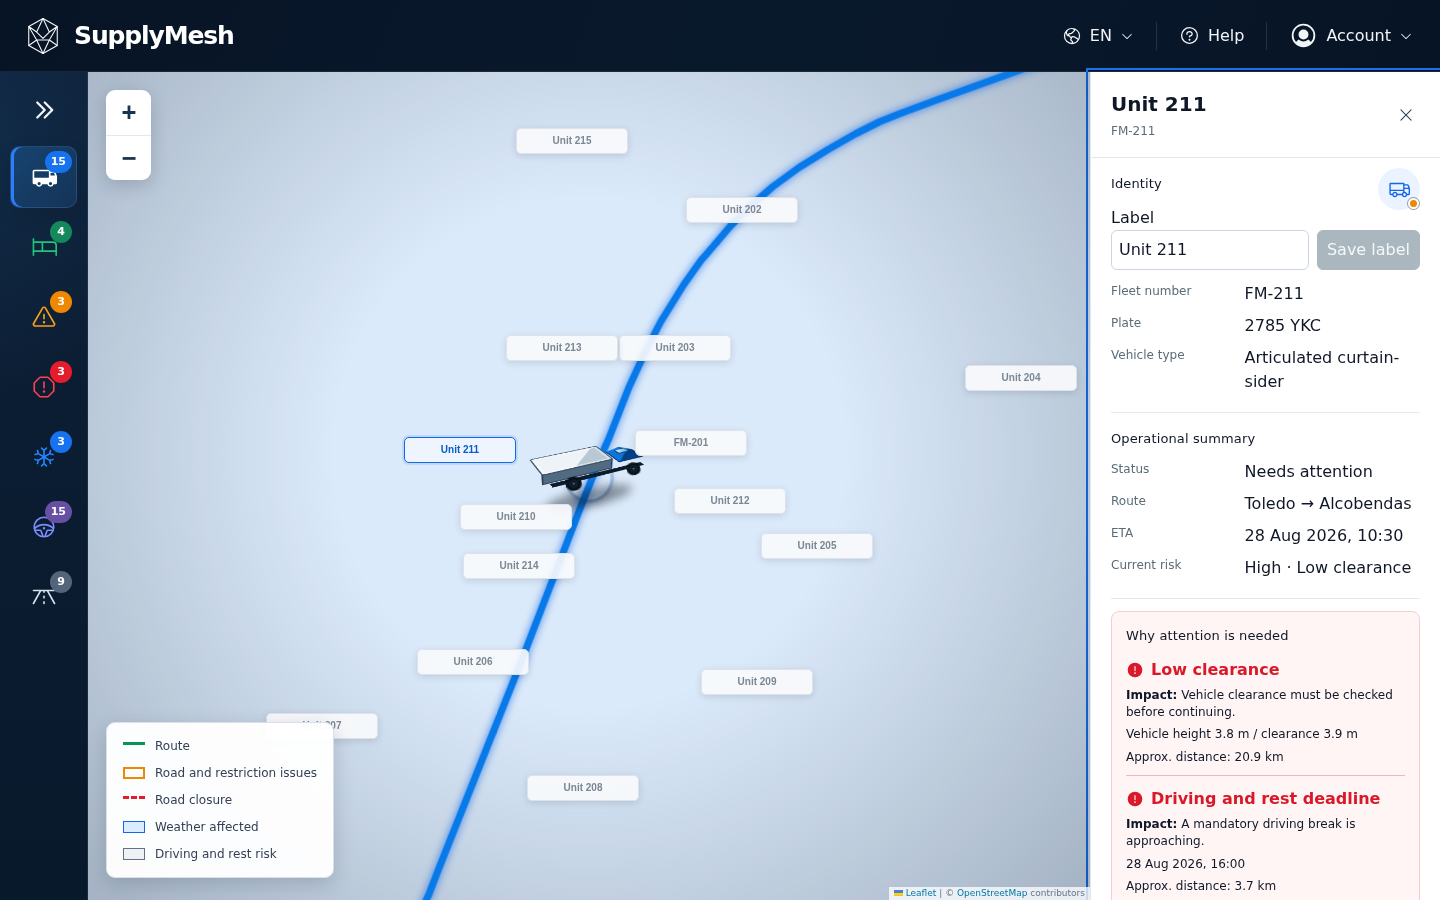
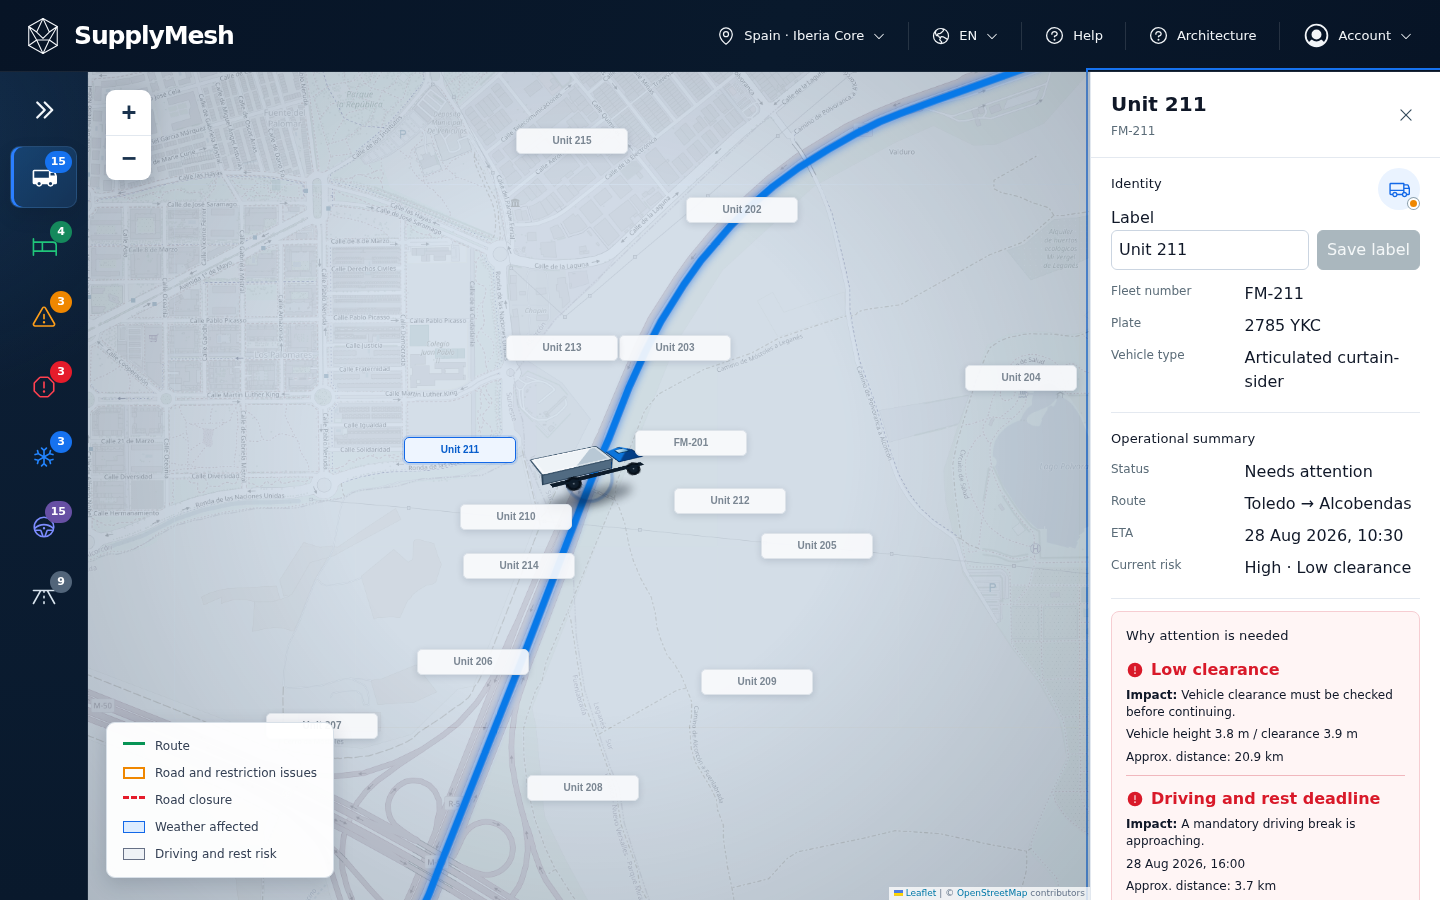
chore(qa): resolve linter issues and complete full test suite for hackathon delivery

diff --git a/src/platform/webmcp/registerOperationalTools.ts b/src/platform/webmcp/registerOperationalTools.ts
@@ -1,6 +1,7 @@
-import type { DomainResult, OperatingRegion } from "../../domain/entities";
+import type { DomainResult, OperatingRegion, VehicleAssignRouteCommand, VehicleCreateCommand, VehicleUpdateCommand } from "../../domain/entities";
 import type { OperationsApi } from "../../domain/operations/createOperationsApi";
 import type { JsonSchema, WebMcpTool, WebMcpToolResponse } from "./webMcpTypes";
+import { useUiCoordinationStore } from "../../app/state/useUiCoordinationStore";
 
 type ScenarioChangeHandler = (scenario: OperatingRegion) => void;
 
@@ -83,9 +84,9 @@ export function createOperationalTools(operations: OperationsApi, onScenarioChan
       name: "scenario_region_select",
       description: "Switches the operational region for the scenario.",
       inputSchema: { type: "object", properties: { regionId: { type: "string" } }, required: ["regionId"], additionalProperties: false },
-      execute: (input: any) => {
+      execute: (input: unknown) => {
         try {
-          if (typeof input?.regionId !== "string") return toolResponse(failure("invalid-input", "Invalid regionId"));
+          if (!isRecord(input) || typeof input.regionId !== "string") return toolResponse(failure("invalid-input", "Invalid regionId"));
           const result = operations.scenarioRegionSelect(input.regionId);
           if (result.ok) publishScenario(operations, onScenarioChange);
           return toolResponse(result);
@@ -98,16 +99,17 @@ export function createOperationalTools(operations: OperationsApi, onScenarioChan
       name: "avoidance_area_set",
       description: "Sets an active avoidance zone constraint.",
       inputSchema: { type: "object", properties: { radiusMeters: { type: "number" }, coordinates: { type: "array", items: { type: "number" }, minItems: 2, maxItems: 2 }, enabled: { type: "boolean" } }, required: ["enabled"], additionalProperties: false },
-      execute: (input: any) => {
+      execute: (input: unknown) => {
         try {
-          const store = (globalThis as any).__UI_COORDINATION_STORE__ || require("../../app/state/useUiCoordinationStore").useUiCoordinationStore;
-          if (input.enabled && input.coordinates && input.radiusMeters) {
-            store.getState().setAvoidanceArea({ radiusMeters: input.radiusMeters, coordinates: input.coordinates });
+          if (!isRecord(input) || typeof input.enabled !== "boolean") return toolResponse(failure("invalid-input", "Invalid input for avoidance area."));
+          if (input.enabled && Array.isArray(input.coordinates) && typeof input.radiusMeters === "number") {
+            const coords = input.coordinates as [number, number];
+            useUiCoordinationStore.getState().setAvoidanceArea({ radiusMeters: input.radiusMeters, coordinates: coords });
           } else {
-            store.getState().setAvoidanceArea(null);
+            useUiCoordinationStore.getState().setAvoidanceArea(null);
           }
           return toolResponse({ ok: true, data: { success: true } });
-        } catch (e) {
+        } catch {
           return toolResponse(failure("operation-failed", "Could not set avoidance area."));
         }
       },
@@ -140,9 +142,9 @@ export function createOperationalTools(operations: OperationsApi, onScenarioChan
       name: "fleet_vehicle_create",
       description: "Creates a new vehicle.",
       inputSchema: { type: "object", properties: {}, additionalProperties: false },
-      execute: (input: any) => {
+      execute: (input: unknown) => {
         try {
-          const result = operations.vehicleCreate(input);
+          const result = operations.vehicleCreate(input as VehicleCreateCommand);
           if (result.ok) publishScenario(operations, onScenarioChange);
           return toolResponse(result);
         } catch {
@@ -154,9 +156,9 @@ export function createOperationalTools(operations: OperationsApi, onScenarioChan
       name: "fleet_vehicle_update",
       description: "Updates an existing vehicle.",
       inputSchema: { type: "object", properties: {}, additionalProperties: false },
-      execute: (input: any) => {
+      execute: (input: unknown) => {
         try {
-          const result = operations.vehicleUpdate(input);
+          const result = operations.vehicleUpdate(input as VehicleUpdateCommand);
           if (result.ok) publishScenario(operations, onScenarioChange);
           return toolResponse(result);
         } catch {
@@ -168,9 +170,9 @@ export function createOperationalTools(operations: OperationsApi, onScenarioChan
       name: "fleet_vehicle_assign_route",
       description: "Assigns a route to a vehicle.",
       inputSchema: { type: "object", properties: {}, additionalProperties: false },
-      execute: (input: any) => {
+      execute: (input: unknown) => {
         try {
-          const result = operations.vehicleAssignRoute(input);
+          const result = operations.vehicleAssignRoute(input as VehicleAssignRouteCommand);
           if (result.ok) publishScenario(operations, onScenarioChange);
           return toolResponse(result);
         } catch {
@@ -182,8 +184,9 @@ export function createOperationalTools(operations: OperationsApi, onScenarioChan
       name: "fleet_vehicle_delete",
       description: "Deletes a vehicle.",
       inputSchema: vehicleGetInputSchema,
-      execute: (input: any) => {
+      execute: (input: unknown) => {
         try {
+          if (!isVehicleInput(input)) return toolResponse(failure("invalid-input", "The tool input is invalid."));
           const result = operations.vehicleDelete(input.vehicleId);
           if (result.ok) publishScenario(operations, onScenarioChange);
           return toolResponse(result);

diff --git a/src/features/fleet/EditVehicleDialog.tsx b/src/features/fleet/EditVehicleDialog.tsx
@@ -2,7 +2,7 @@ import * as Dialog from "@radix-ui/react-dialog";
 import { useState } from "react";
 import type { VehicleUpdateCommand, OperatingRegion, Vehicle, VehicleAssignRouteCommand } from "../../domain/entities";
 import type { OperationsApi } from "../../domain/operations/createOperationsApi";
-import { catalog, type Locale } from "../../preferences/i18n/catalog";
+import type { Locale } from "../../preferences/i18n/catalog";
 import { Pencil } from "@phosphor-icons/react";
 
 type EditVehicleDialogProps = {
@@ -13,9 +13,8 @@ type EditVehicleDialogProps = {
   onScenarioChange(scenario: OperatingRegion): void;
 };
 
-export function EditVehicleDialog({ locale, operations, scenario, vehicle, onScenarioChange }: EditVehicleDialogProps) {
+export function EditVehicleDialog({ operations, scenario, vehicle, onScenarioChange }: EditVehicleDialogProps) {
   const [open, setOpen] = useState(false);
-  const copy = catalog(locale);
 
   const [plate, setPlate] = useState(vehicle.plate);
   const [label, setLabel] = useState(vehicle.label);
@@ -74,14 +73,14 @@ export function EditVehicleDialog({ locale, operations, scenario, vehicle, onSce
             <label>Weight (t): <input type="number" step="0.1" required value={weightTonnes} onChange={e => setWeightTonnes(parseFloat(e.target.value))} /></label>
             <label>Cargo Description: <input required value={cargoDesc} onChange={e => setCargoDesc(e.target.value)} /></label>
             <label>Refrigeration: 
-              <select value={refrigeration} onChange={e => setRefrigeration(e.target.value as any)}>
+              <select value={refrigeration} onChange={e => setRefrigeration(e.target.value as "ambient" | "chilled" | "frozen")}>
                 <option value="ambient">Ambient</option>
                 <option value="chilled">Chilled</option>
                 <option value="frozen">Frozen</option>
               </select>
             </label>
             <label>Priority:
-              <select value={priority} onChange={e => setPriority(e.target.value as any)}>
+              <select value={priority} onChange={e => setPriority(e.target.value as "standard" | "priority" | "critical")}>
                 <option value="standard">Standard</option>
                 <option value="priority">Priority</option>
                 <option value="critical">Critical</option>

diff --git a/src/features/fleet/CreateVehicleDialog.tsx b/src/features/fleet/CreateVehicleDialog.tsx
@@ -2,7 +2,7 @@ import * as Dialog from "@radix-ui/react-dialog";
 import { useState } from "react";
 import type { VehicleCreateCommand, OperatingRegion } from "../../domain/entities";
 import type { OperationsApi } from "../../domain/operations/createOperationsApi";
-import { catalog, type Locale } from "../../preferences/i18n/catalog";
+import type { Locale } from "../../preferences/i18n/catalog";
 import { Plus } from "@phosphor-icons/react";
 
 type CreateVehicleDialogProps = {
@@ -12,9 +12,8 @@ type CreateVehicleDialogProps = {
   onScenarioChange(scenario: OperatingRegion): void;
 };
 
-export function CreateVehicleDialog({ locale, operations, scenario, onScenarioChange }: CreateVehicleDialogProps) {
+export function CreateVehicleDialog({ operations, scenario, onScenarioChange }: CreateVehicleDialogProps) {
   const [open, setOpen] = useState(false);
-  const copy = catalog(locale);
 
   const [fleetNumber, setFleetNumber] = useState("");
   const [plate, setPlate] = useState("");
@@ -69,14 +68,14 @@ export function CreateVehicleDialog({ locale, operations, scenario, onScenarioCh
             <label>Weight (t): <input type="number" step="0.1" required value={weightTonnes} onChange={e => setWeightTonnes(parseFloat(e.target.value))} /></label>
             <label>Cargo Description: <input required value={cargoDesc} onChange={e => setCargoDesc(e.target.value)} /></label>
             <label>Refrigeration: 
-              <select value={refrigeration} onChange={e => setRefrigeration(e.target.value as any)}>
+              <select value={refrigeration} onChange={e => setRefrigeration(e.target.value as "ambient" | "chilled" | "frozen")}>
                 <option value="ambient">Ambient</option>
                 <option value="chilled">Chilled</option>
                 <option value="frozen">Frozen</option>
               </select>
             </label>
             <label>Priority:
-              <select value={priority} onChange={e => setPriority(e.target.value as any)}>
+              <select value={priority} onChange={e => setPriority(e.target.value as "standard" | "priority" | "critical")}>
                 <option value="standard">Standard</option>
                 <option value="priority">Priority</option>
                 <option value="critical">Critical</option>

diff --git a/src/scenario/persistence/overrideStorage.ts b/src/scenario/persistence/overrideStorage.ts
@@ -16,7 +16,7 @@ function isLabelRecord(value: unknown): value is Record<string, string> {
 
 function isScenarioOverrides(value: unknown): value is ScenarioOverrides {
   if (typeof value !== "object" || value === null) return false;
-  const candidate = value as { version?: unknown; labels?: unknown; deletedVehicleIds?: unknown; operationalSnapshot?: unknown; recoveryRouteApplied?: unknown };
+  const candidate = value as ScenarioOverrides;
   const hasRecovery = candidate.operationalSnapshot !== undefined || candidate.recoveryRouteApplied !== undefined;
   return candidate.version === SCENARIO_OVERRIDES_VERSION
     && isLabelRecord(candidate.labels)
@@ -35,9 +35,9 @@ export function loadScenarioOverrides(storage: StorageLike): ScenarioOverrides {
       version: SCENARIO_OVERRIDES_VERSION, 
       labels: Object.fromEntries(Object.entries(parsed.labels).map(([id, label]) => [id, label.trim()])), 
       deletedVehicleIds: [...new Set(parsed.deletedVehicleIds)],
-      createdVehicles: Array.isArray((parsed as any).createdVehicles) ? (parsed as any).createdVehicles : [],
-      updatedVehicles: (parsed as any).updatedVehicles || {},
-      assignedRoutes: (parsed as any).assignedRoutes || {}
+      createdVehicles: Array.isArray(parsed.createdVehicles) ? parsed.createdVehicles : [],
+      updatedVehicles: parsed.updatedVehicles ?? {},
+      assignedRoutes: parsed.assignedRoutes ?? {}
     };
     return parsed.recoveryRouteApplied === true && parsed.operationalSnapshot !== undefined
       ? { ...normalized, recoveryRouteApplied: true, operationalSnapshot: structuredClone(parsed.operationalSnapshot) }

diff --git a/src/features/shell/OperationalShell.test.tsx b/src/features/shell/OperationalShell.test.tsx
@@ -8,6 +8,7 @@ import { createSpainScenario } from "../../scenario/fixtures/spain-v1";
 import { clearanceAlternativeCatalog } from "../../scenario/fixtures/clearanceAlternativeCatalog";
 import { createOperationsApi } from "../../domain/operations/createOperationsApi";
 import type { OperationsApi } from "../../domain/operations/createOperationsApi";
+import type { OperatingRegion } from "../../domain/entities";
 import { createApplication, createRecoveryApplication } from "../../app/createApplication";
 import type { RecoveryApplication } from "../../app/createApplication";
 import { createZustandScenarioRepository } from "../../scenario/state/createZustandScenarioRepository";
@@ -128,7 +129,7 @@ describe("OperationalShell", () => {
 
   it("should switch the visible language immediately", async () => {
     const user = userEvent.setup();
-    function LocalizedTopbar() { const [locale, setLocale] = useState<"en" | "es">("en"); const mockOperations = {} as any; return <Topbar locale={locale} onLocaleChange={setLocale} scenario={{ id: 'spain-v1', name: 'Spain' } as any} operations={mockOperations} onScenarioChange={() => {}} />; }
+    function LocalizedTopbar() { const [locale, setLocale] = useState<"en" | "es">("en"); const mockOperations = {} as unknown as OperationsApi; return <Topbar locale={locale} onLocaleChange={setLocale} scenario={{ id: "spain-v1", name: "Spain" } as unknown as OperatingRegion} operations={mockOperations} onScenarioChange={() => {}} />; }
     render(<LocalizedTopbar />);
 
     const language = screen.getByRole("button", { name: "Language" });

diff --git a/src/domain/operations/unit211PreDispatchContext.test.ts b/src/domain/operations/unit211PreDispatchContext.test.ts
@@ -29,7 +29,16 @@ function routeFrom(scenario: OperatingRegion): Route { return required(scenario.
 function riskFrom(scenario: OperatingRegion): OperationalRisk { return required(scenario.risks.find(({ id }) => id === RISK_ID), "Clearance risk is missing."); }
 function unexpectedMutation(): never { throw new Error("The pre-dispatch operation must be read-only."); }
 function repositoryFor(scenario: OperatingRegion, calls: Calls): ScenarioRepository {
-  return { scenarioCurrent: () => { calls.scenario += 1; return scenario; }, vehicleGet: unexpectedMutation, vehicleRename: unexpectedMutation, vehicleDelete: unexpectedMutation };
+  return {
+    scenarioCurrent: () => { calls.scenario += 1; return scenario; },
+    scenarioRegionSelect: unexpectedMutation,
+    vehicleGet: unexpectedMutation,
+    vehicleRename: unexpectedMutation,
+    vehicleDelete: unexpectedMutation,
+    vehicleCreate: unexpectedMutation,
+    vehicleUpdate: unexpectedMutation,
+    vehicleAssignRoute: unexpectedMutation,
+  };
 }
 function apiFor(scenario: OperatingRegion, read: () => unknown = () => clearanceAlternativeCatalog, admittedAlternativeCatalog: unknown = clearanceAlternativeCatalog): { api: ReturnType<typeof createOperationsApi>; calls: Calls } {
   const calls = { scenario: 0, catalog: 0 };

diff --git a/src/domain/operations/assessAuthoritativeVerticalClearance.test.ts b/src/domain/operations/assessAuthoritativeVerticalClearance.test.ts
@@ -19,7 +19,16 @@ type SnapCase = { label: string; mutate(targets: SnapTargets): void };
 function callsEmpty(): RepositoryCalls { return { scenarioCurrent: 0 }; }
 function unexpectedRepositoryCall(): never { throw new Error("The clearance assessment must only read scenarioCurrent."); }
 function repositoryFor(scenario: OperatingRegion, calls: RepositoryCalls): ScenarioRepository {
-  return { scenarioCurrent: () => { calls.scenarioCurrent += 1; return scenario; }, vehicleGet: unexpectedRepositoryCall, vehicleRename: unexpectedRepositoryCall, vehicleDelete: unexpectedRepositoryCall };
+  return {
+    scenarioCurrent: () => { calls.scenarioCurrent += 1; return scenario; },
+    scenarioRegionSelect: unexpectedRepositoryCall,
+    vehicleGet: unexpectedRepositoryCall,
+    vehicleRename: unexpectedRepositoryCall,
+    vehicleDelete: unexpectedRepositoryCall,
+    vehicleCreate: unexpectedRepositoryCall,
+    vehicleUpdate: unexpectedRepositoryCall,
+    vehicleAssignRoute: unexpectedRepositoryCall,
+  };
 }
 function assess(scenario: OperatingRegion, clearanceBufferMeters: number): AuthoritativeVerticalClearanceAssessmentResult {
   return createOperationsApi(repositoryFor(scenario, callsEmpty())).assessAuthoritativeVerticalClearance({ ...INPUT, clearanceBufferMeters });

diff --git a/src/styles.css b/src/styles.css
@@ -50,10 +50,12 @@ button:focus-visible, a:focus-visible, [tabindex]:focus-visible {
   display: flex;
   height: 56px;
   justify-content: space-between;
-  padding: 0 20px;
+  padding: 0 12px;
+  max-width: 100vw;
+  box-sizing: border-box;
 }
 .wordmark { font-size: 15px; font-weight: 650; letter-spacing: -.025em; }
-.topbar-controls { align-items: center; display: flex; gap: 4px; }
+.topbar-controls { align-items: center; display: flex; gap: 2px; flex-shrink: 1; min-width: 0; }
 .topbar-control {
   align-items: center;
   background: transparent;
@@ -61,9 +63,10 @@ button:focus-visible, a:focus-visible, [tabindex]:focus-visible {
   color: #c7d4de;
   cursor: pointer;
   display: inline-flex;
-  gap: 5px;
+  gap: 4px;
   min-height: 36px;
-  padding: 0 10px;
+  padding: 0 6px;
+  font-size: 13px;
   transition: background-color 180ms cubic-bezier(.16, 1, .3, 1), color 180ms cubic-bezier(.16, 1, .3, 1);
 }
 .topbar-control:hover, .topbar-control[data-state="open"] { background: var(--chrome-raised); color: #f3f7f9; }

diff --git a/src/domain/operations/createOperationsApi.test.ts b/src/domain/operations/createOperationsApi.test.ts
@@ -1,12 +1,12 @@
 import { describe, expect, it } from "vitest";
 import { createOperationsApi } from "./createOperationsApi";
 import type { ScenarioRepository } from "../ports/ScenarioRepository";
-import type { Vehicle, VehicleCreateCommand, VehicleUpdateCommand, VehicleAssignRouteCommand, OperatingRegion, FleetStatus, VehicleRenameCommand } from "../entities";
+import type { Vehicle, VehicleCreateCommand, VehicleUpdateCommand, VehicleAssignRouteCommand, OperatingRegion } from "../entities";
 
 const mockRepository = (): ScenarioRepository => ({
-  scenarioCurrent: () => ({} as OperatingRegion),
-  fleetStatus: () => ({} as FleetStatus),
-  vehicleGet: (id) => ({ cargo: { id: "cargo-1" } } as Vehicle),
+  scenarioCurrent: () => ({ vehicles: [] } as unknown as OperatingRegion),
+  scenarioRegionSelect: () => undefined,
+  vehicleGet: () => ({ cargo: { id: "cargo-1" } } as Vehicle),
   vehicleRename: () => ({} as Vehicle),
   vehicleDelete: () => ({} as Vehicle),
   vehicleCreate: (v) => v,

diff --git a/e2e/operational-console.spec.ts b/e2e/operational-console.spec.ts
@@ -1,7 +1,7 @@
 import { expect, test, type Page, type TestInfo } from "@playwright/test";
 import path from "node:path";
 
-const expectedToolNames = ["fleet_status", "fleet_vehicle_assign_route", "fleet_vehicle_create", "fleet_vehicle_delete", "fleet_vehicle_update", "recovery_operations_context", "recovery_options_compare", "recovery_plan_stage", "scenario_current", "vehicle_get", "vehicle_rename"];
+const expectedToolNames = ["avoidance_area_set", "fleet_status", "fleet_vehicle_assign_route", "fleet_vehicle_create", "fleet_vehicle_delete", "fleet_vehicle_update", "recovery_operations_context", "recovery_options_compare", "recovery_plan_stage", "scenario_current", "scenario_region_select", "vehicle_get", "vehicle_rename"];
 const scenarioTrace = [
   "Render operational desktop", "Exclude unsupported chrome", "Respect reduced motion", "Navigate shell semantics",
   "Change locale", "Switch back to English", "Use the menu by keyboard", "Toggle multiple filters",

diff --git a/src/domain/recovery/createRecoveryCapabilities.test.ts b/src/domain/recovery/createRecoveryCapabilities.test.ts
@@ -550,7 +550,7 @@ describe("recovery fail-closed boundaries", () => {
     const tools = createOperationalTools(operations);
 
     expect(uiKeys.some((key) => /recovery|revision|approval|plan|incident/i.test(key))).toBe(false);
-    expect(tools.map(({ name }) => name)).toStrictEqual(["scenario_current", "fleet_status", "vehicle_get", "vehicle_rename", "fleet_vehicle_create", "fleet_vehicle_update", "fleet_vehicle_assign_route", "fleet_vehicle_delete"]);
+    expect(tools.map(({ name }) => name)).toStrictEqual(["scenario_current", "scenario_region_select", "avoidance_area_set", "fleet_status", "vehicle_get", "vehicle_rename", "fleet_vehicle_create", "fleet_vehicle_update", "fleet_vehicle_assign_route", "fleet_vehicle_delete"]);
     expect(tools.some(({ name }) => /approve|reject|reset|execute|recovery/i.test(name))).toBe(false);
   });
 

diff --git a/src/platform/webmcp/registerOperationalTools.test.ts b/src/platform/webmcp/registerOperationalTools.test.ts
@@ -35,12 +35,16 @@ function failingOperations(): OperationsApi {
     },
     fleetStatus: (): DomainResult<FleetStatus> => unavailable(),
     scenarioCurrent: (): DomainResult<OperatingRegion> => unavailable(),
+    scenarioRegionSelect: (): DomainResult<OperatingRegion> => unavailable(),
     unit211PreDispatchContext: () => {
       throw new Error("credential=not-for-tool-output");
     },
     vehicleDelete: (): DomainResult<Vehicle> => unavailable(),
     vehicleGet: (): DomainResult<Vehicle> => unavailable(),
     vehicleRename: (): DomainResult<Vehicle> => unavailable(),
+    vehicleCreate: (): DomainResult<Vehicle> => unavailable(),
+    vehicleUpdate: (): DomainResult<Vehicle> => unavailable(),
+    vehicleAssignRoute: (): DomainResult<Vehicle> => unavailable(),
   };
 }
 
